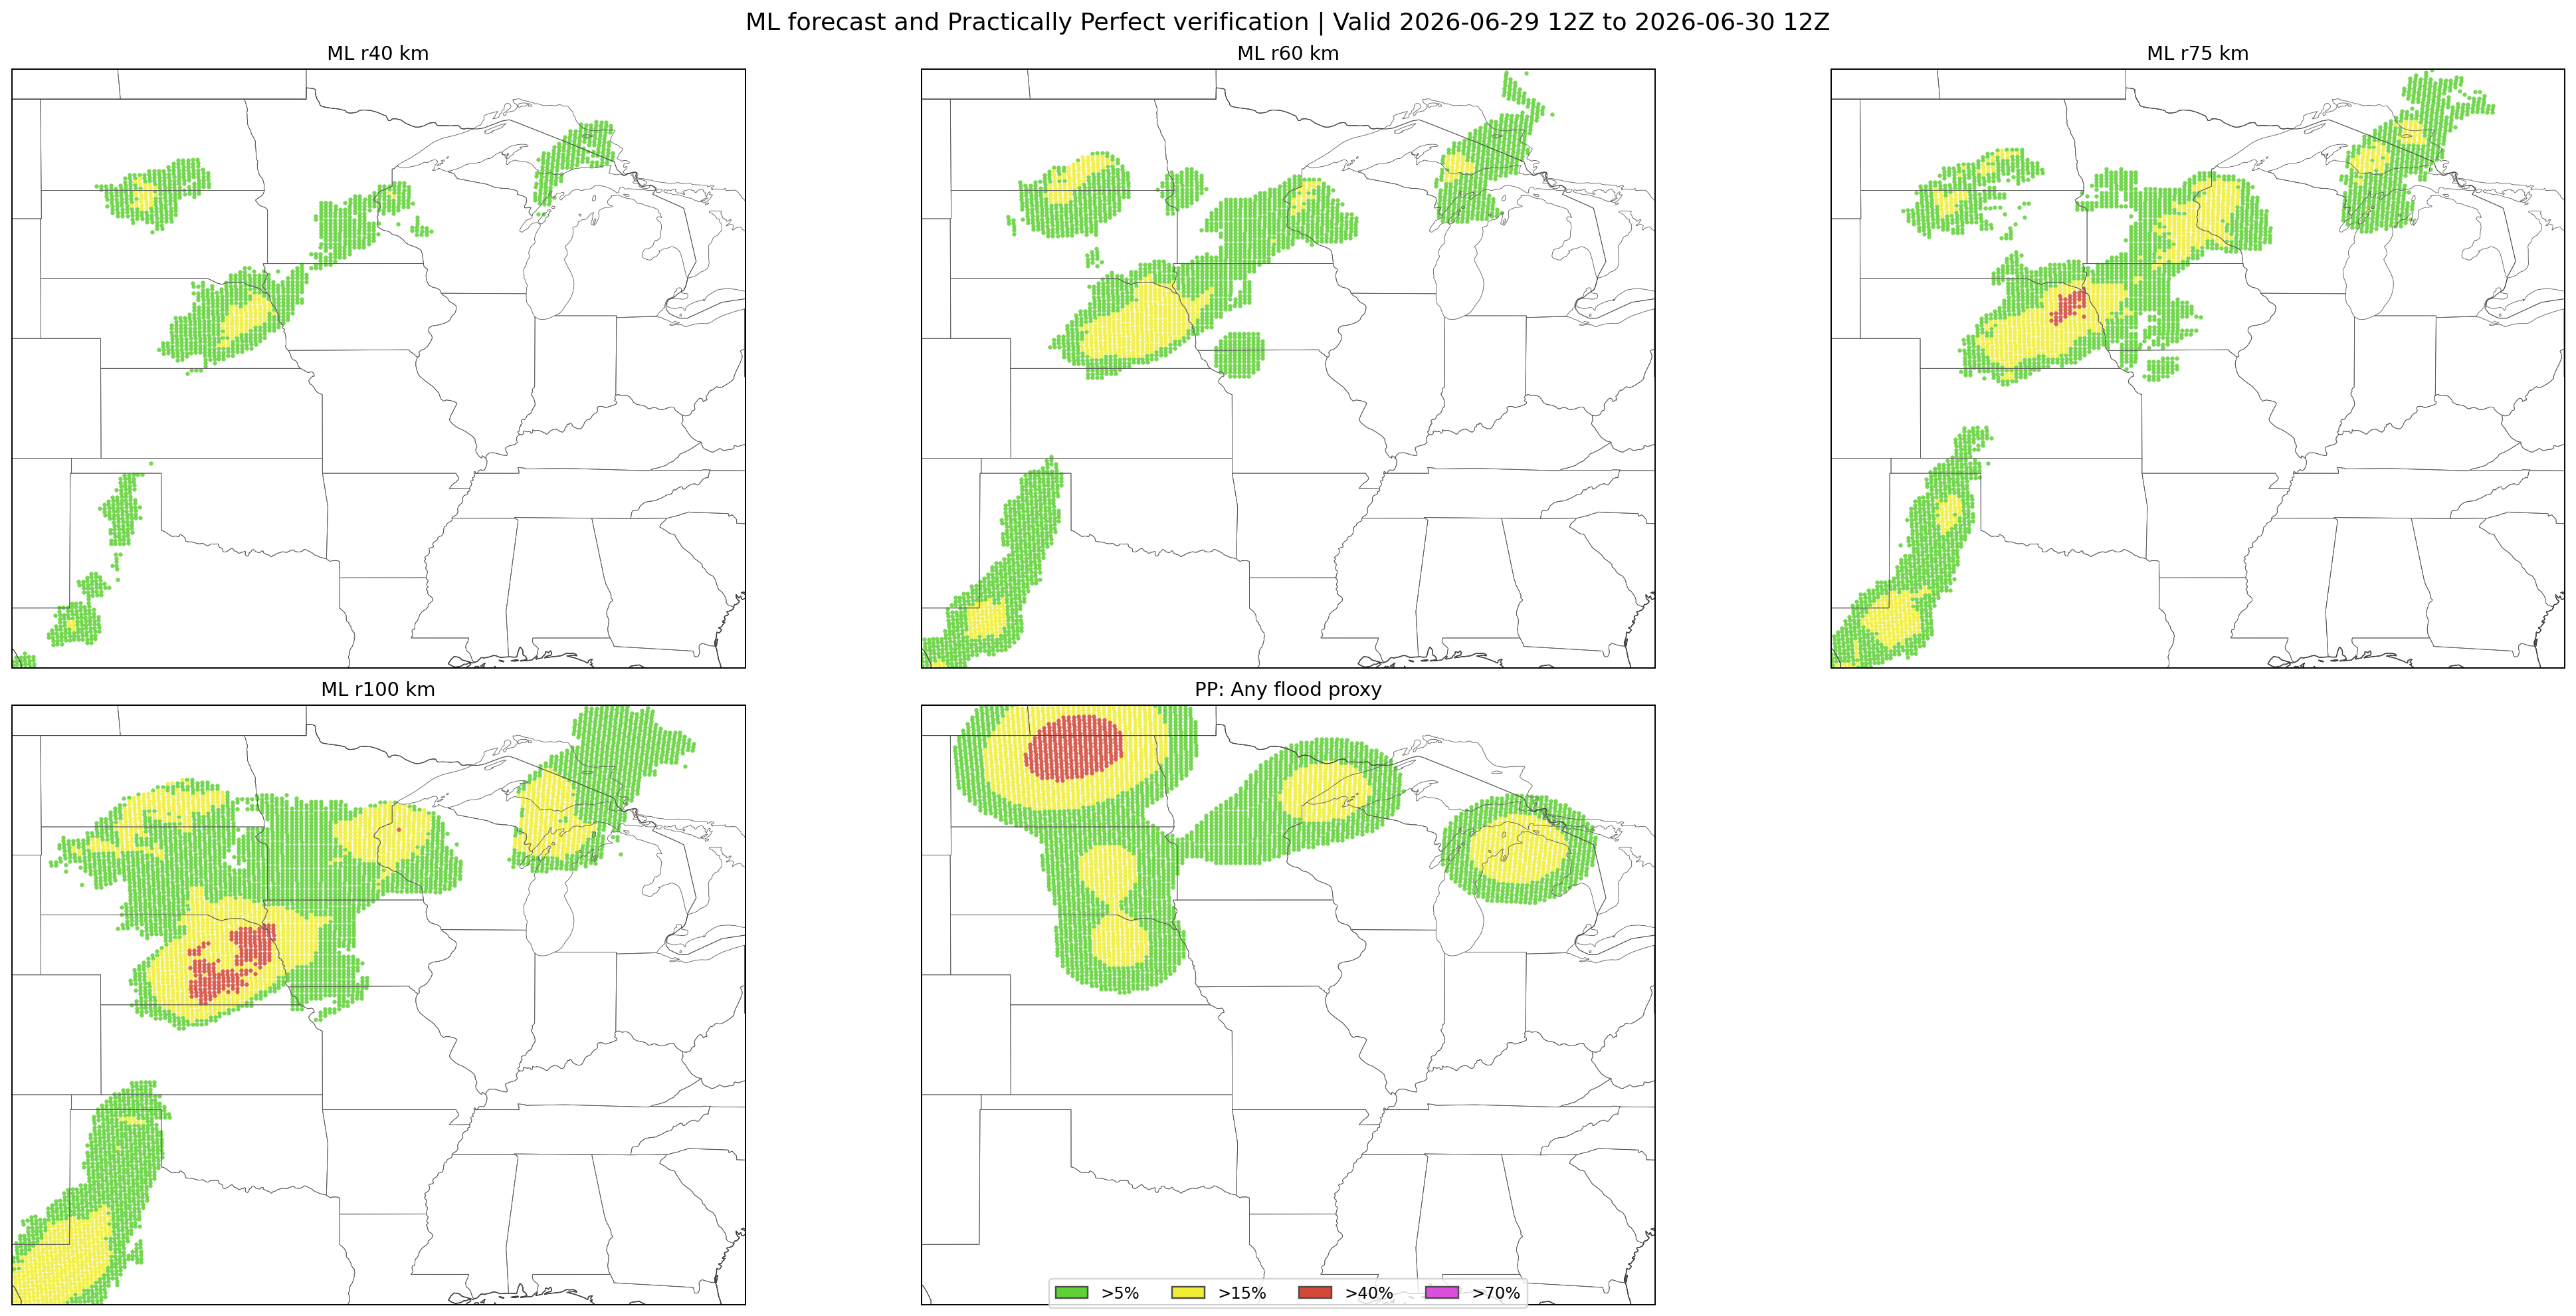
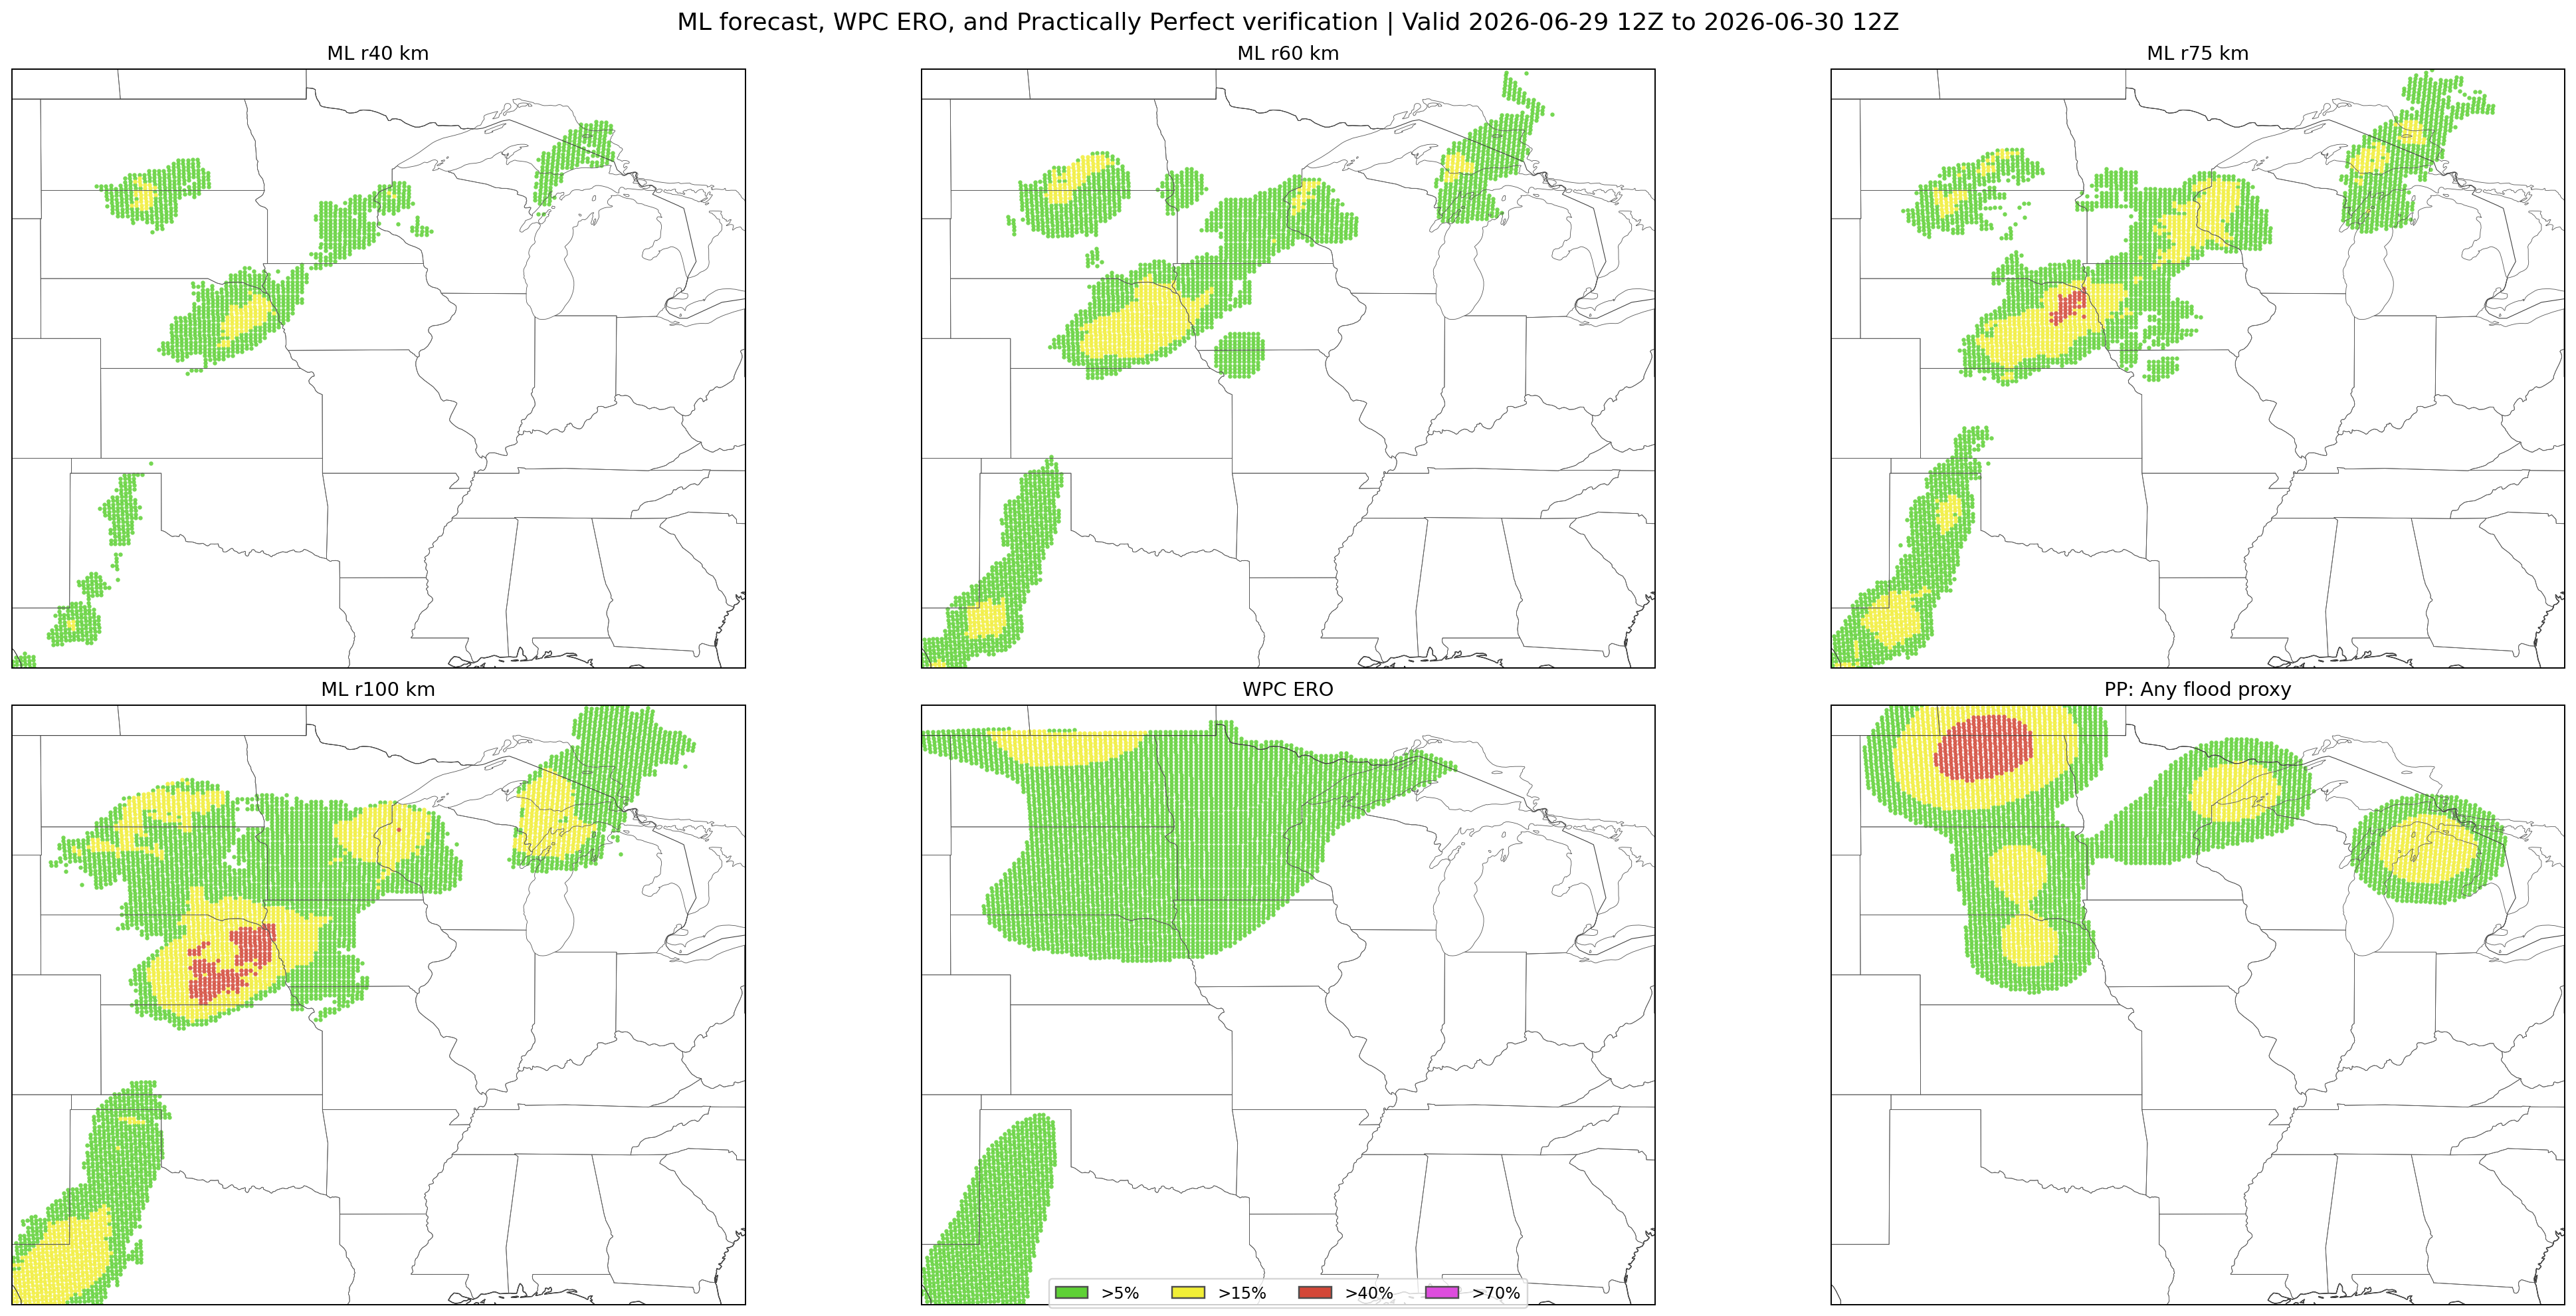
Fix verification WPC panel and archive links

diff --git a/docs/index.html b/docs/index.html
@@ -104,7 +104,7 @@
             const verificationLink = document.createElement("a");
             const verificationVersion = encodeURIComponent(entry.verification_updated_utc || cacheVersion);
             verificationLink.href = verificationHref + (verificationHref.includes("?") ? "&" : "?") + "cache=" + verificationVersion;
-            verificationLink.textContent = "View graphic";
+            verificationLink.textContent = entry.verification_embedded_in_forecast ? "View combined graphic" : "View graphic";
             verification.append(verificationLink);
           } else {
             verification.textContent = "Pending";

diff --git a/generate_v33_test_archive.py b/generate_v33_test_archive.py
@@ -108,6 +108,9 @@ def write_status(date: str, destination: Path) -> None:
         "latest_plot": "latest.png",
         "site_updated_utc": datetime.now(timezone.utc).strftime("%Y-%m-%dT%H:%M:%SZ"),
         "product_description": "Machine-learning radius products, WPC ERO, and Practically Perfect verification.",
+        "verification_available": True,
+        "verification_plot": "latest.png",
+        "verification_embedded_in_forecast": True,
     }
     destination.write_text(json.dumps(status, indent=2, sort_keys=True) + "\n")
 
@@ -120,6 +123,10 @@ def rebuild_archive_index() -> None:
             continue
         status = json.loads(status_path.read_text())
         plot_exists = (day_dir / "latest.png").exists()
+        verification_exists = (day_dir / "verification.png").exists()
+        verification_embedded = bool(status.get("verification_embedded_in_forecast", False)) or (
+            "practically perfect verification" in str(status.get("product_description", "")).lower()
+        )
         entries.append(
             {
                 "date": str(status.get("date") or day_dir.name),
@@ -129,6 +136,13 @@ def rebuild_archive_index() -> None:
                 "site_updated_utc": status.get("site_updated_utc", ""),
                 "status_href": f"archive/{day_dir.name}/status.json",
                 "plot_href": f"archive/{day_dir.name}/latest.png" if plot_exists else None,
+                "verification_available": bool(verification_exists or (verification_embedded and plot_exists)),
+                "verification_plot_href": (
+                    f"archive/{day_dir.name}/verification.png" if verification_exists
+                    else (f"archive/{day_dir.name}/latest.png" if verification_embedded and plot_exists else None)
+                ),
+                "verification_embedded_in_forecast": bool(verification_embedded and not verification_exists),
+                "verification_updated_utc": status.get("verification_updated_utc", status.get("site_updated_utc", "")),
             }
         )
     payload = {

diff --git a/realtime_mcs_trigger_plot.py b/realtime_mcs_trigger_plot.py
@@ -2842,17 +2842,23 @@ def main(argv=None) -> int:
             verification_plot = None
             if verified_path:
                 verified_df = pd.read_parquet(verified_path)
+                verified_df = add_wpc_ero_to_realtime_from_iem(
+                    verified_df,
+                    date=d,
+                    rp=rp,
+                    force_wpc=args.force_wpc,
+                )
                 verification_plot = plot_realtime_ero_panels(
                     verified_df,
                     date=d,
                     rp=rp,
                     radii=args.radii,
-                    include_wpc=False,
+                    include_wpc=True,
                     include_ufvs=False,
                     include_pp=True,
                     show_below_5=False,
                     output_filename=f"realtime_ml_verification_{d}_valid12to12_radii_pp.png",
-                    figure_title=f"ML forecast and Practically Perfect verification | Valid {valid_label}",
+                    figure_title=f"ML forecast, WPC ERO, and Practically Perfect verification | Valid {valid_label}",
                 )
             status["verification_plot_path"] = str(verification_plot) if verification_plot else None
             status["finished_utc"] = datetime.now(timezone.utc).isoformat()